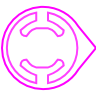
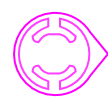
Centered cursor image file.

Changed region(s): [[0.0, 0.0312, 1.0, 0.9688]]

diff --git a/Source/controls.cpp b/Source/controls.cpp
@@ -97,11 +97,6 @@ void handle_button(unsigned int button, float pos) {
         if(button == BUTTON_MOVE_DOWN || button == BUTTON_MOVE_UP) leader_move_y =
                 ((button == BUTTON_MOVE_UP) ? -pos : pos);
                 
-        if(button == BUTTON_MOVE_RIGHT)     cur_leader_ptr->speed_x = LEADER_MOVE_SPEED * pos;
-        else if(button == BUTTON_MOVE_UP)   cur_leader_ptr->speed_y = -LEADER_MOVE_SPEED * pos;
-        else if(button == BUTTON_MOVE_LEFT) cur_leader_ptr->speed_x = -LEADER_MOVE_SPEED * pos;
-        else if(button == BUTTON_MOVE_DOWN) cur_leader_ptr->speed_y = LEADER_MOVE_SPEED * pos;
-        
     } else if(
         button == BUTTON_MOVE_CURSOR_RIGHT ||
         button == BUTTON_MOVE_CURSOR_UP ||

diff --git a/Source/drawing.cpp b/Source/drawing.cpp
@@ -143,13 +143,13 @@ void do_drawing() {
         draw_sprite(
             bmp_mouse_cursor,
             mouse_cursor_x, mouse_cursor_y,
-            cam_zoom * 48, cam_zoom * 48,
+            cam_zoom * 54, cam_zoom * 54,
             cursor_angle);
         al_use_transform(&world_to_screen_transform);
         draw_sprite(
             bmp_cursor,
             cursor_x, cursor_y,
-            48, 48,
+            54, 54,
             cursor_angle);
             
             

diff --git a/Source/logic.cpp b/Source/logic.cpp
@@ -317,6 +317,7 @@ void do_logic() {
         cur_leader_ptr->holding_pikmin->y = cur_leader_ptr->y + sin(cur_leader_ptr->angle + M_PI) * cur_leader_ptr->size / 2;
     }
     
+    //Current leader movement.
     if(!cur_leader_ptr->auto_pluck_mode) {
         float leader_move_intensity = dist(0, 0, leader_move_x, leader_move_y);
         if(leader_move_intensity < 0.75) leader_move_intensity = 0;
